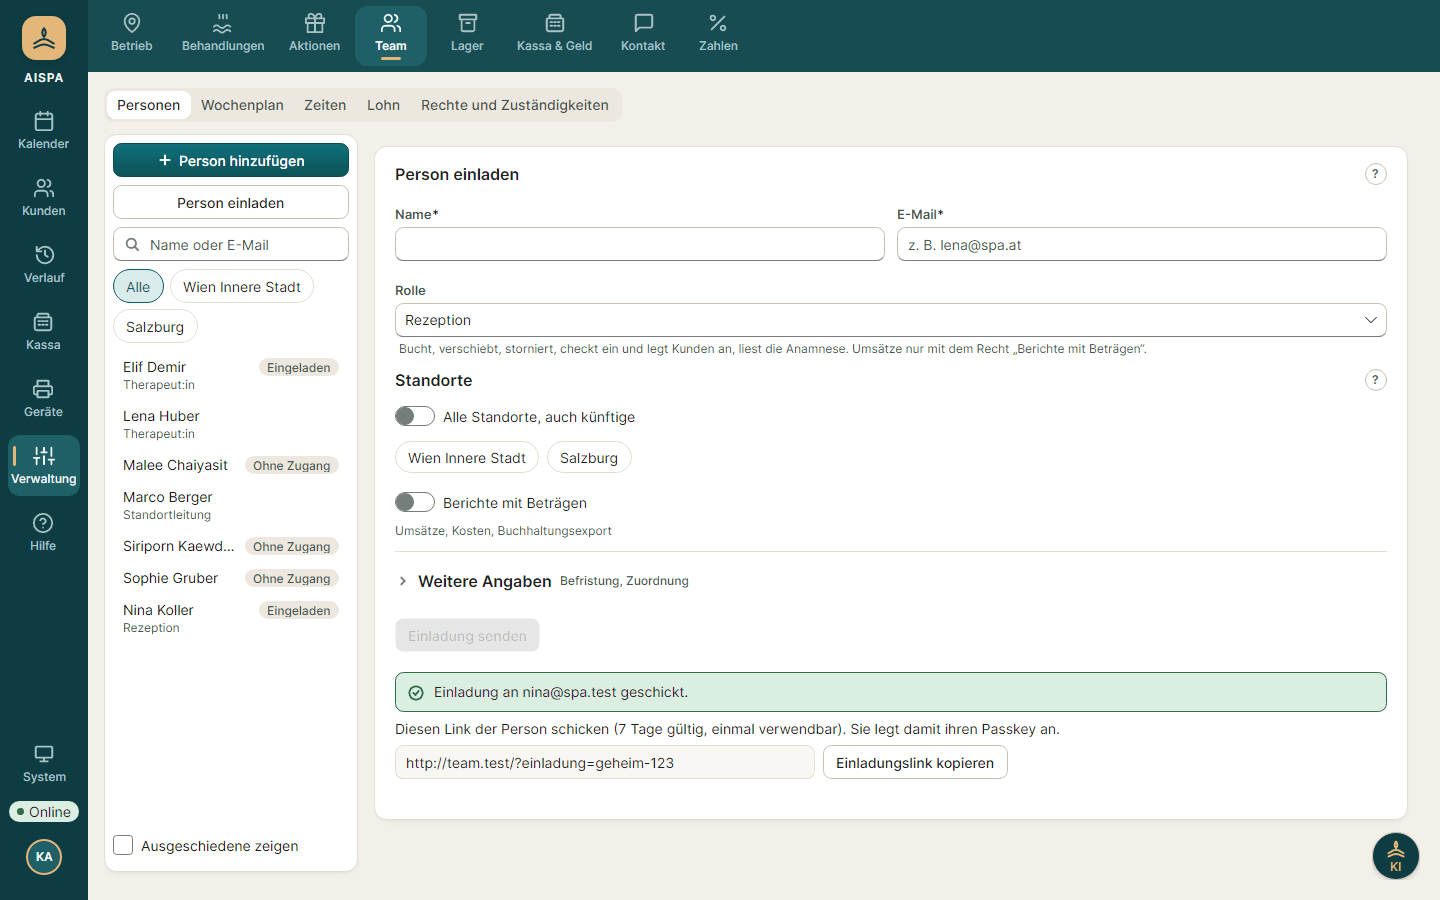
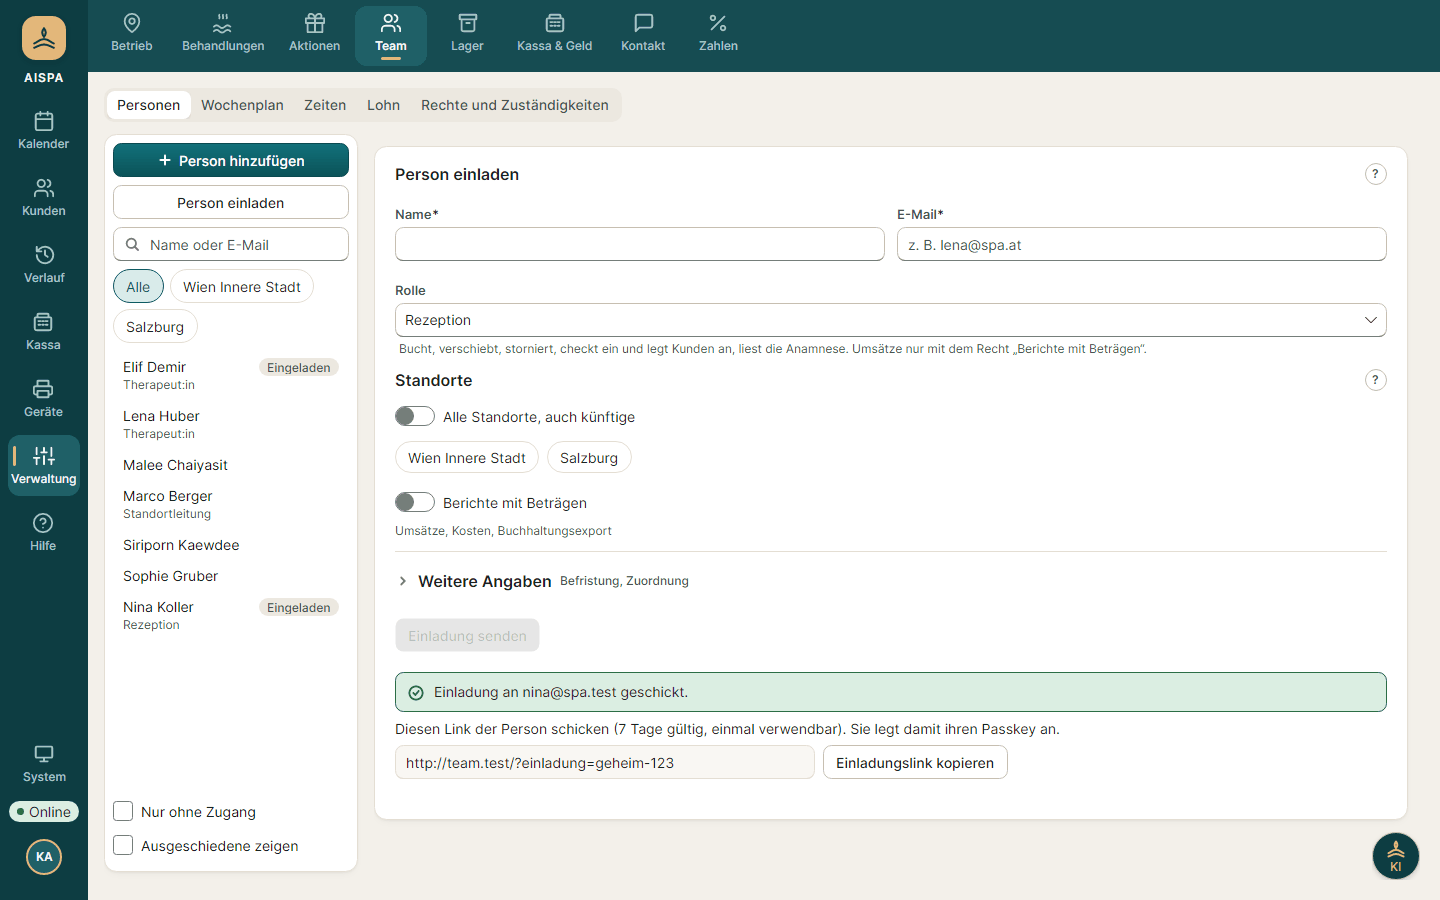
Team: „Ohne Zugang“ als Filter statt Kennzeichen, Standort-Chips mit Auswahlzustand (P5)

Changed region(s): [[0.0938, 0.5289, 0.25, 0.7156], [0.1562, 0.4978, 0.25, 0.5289], [0.1562, 0.9022, 0.1875, 0.9333]]

diff --git a/src/AispaStudio.Desktop/ViewModels/TeamViewModel.cs b/src/AispaStudio.Desktop/ViewModels/TeamViewModel.cs
@@ -268,6 +268,13 @@ public sealed partial class TeamViewModel : ViewModelBase, ITargetedArea
     [ObservableProperty]
     public partial bool ShowFormer { get; set; }
 
+    /// <summary>Nur Personen ohne Zugang und ohne offene Einladung (statt eines Kennzeichens in jeder Zeile; Auftraggeber, 17.11.2026).</summary>
+    [ObservableProperty]
+    public partial bool OnlyWithoutAccess { get; set; }
+
+    /// <summary>Den Filter „Nur ohne Zugang“ sieht nur, wer Zugänge verwaltet.</summary>
+    public bool CanFilterWithoutAccess => CanStaff;
+
     [ObservableProperty]
     [NotifyPropertyChangedFor(nameof(ShowsModesBar), nameof(ShowsPeopleView), nameof(ShowsRosterView), nameof(ShowsTimesView), nameof(ShowsPayrollView), nameof(ShowsRightsView),
         nameof(HasNoEntries))]
@@ -727,6 +734,8 @@ public sealed partial class TeamViewModel : ViewModelBase, ITargetedArea
 
     partial void OnShowFormerChanged(bool value) => Filter();
 
+    partial void OnOnlyWithoutAccessChanged(bool value) => Filter();
+
     partial void OnSelectedEntryChanged(TeamEntry? oldValue, TeamEntry? newValue)
     {
         OnPropertyChanged(nameof(ListSelection));
@@ -831,9 +840,9 @@ public sealed partial class TeamViewModel : ViewModelBase, ITargetedArea
             var invitation = member is null ? data.Invitations.FirstOrDefault(i => i.EmployeeId == employee.Id) : null;
             var (role, badge, kind) = member is not null ? MemberLabels(member, now)
                 : invitation is not null ? (RoleChoice.LabelOf(invitation.Role), "Eingeladen", EntryBadgeKind.Neutral)
-                : ("", CanStaff ? "Ohne Zugang" : null, EntryBadgeKind.Neutral);
+                : ("", null, EntryBadgeKind.Neutral);
             rows.Add((0, new TeamEntry(TeamEntryKind.Person, employee.DisplayName, role, employee.Id, member?.UserId, invitation?.Id,
-                member?.Email ?? invitation?.Email, Badge: badge, BadgeKind: kind)));
+                member?.Email ?? invitation?.Email, Badge: badge, BadgeKind: kind, HasNoAccess: CanStaff && member is null && invitation is null)));
         }
 
         var team = data.Employees.Select(e => e.Id).ToHashSet();
@@ -875,11 +884,11 @@ public sealed partial class TeamViewModel : ViewModelBase, ITargetedArea
         };
     }
 
-    /// <summary>Suche über Name und E-Mail, „Ausgeschiedene zeigen“ und der Standort.</summary>
+    /// <summary>Suche über Name und E-Mail, „Ausgeschiedene zeigen“, „Nur ohne Zugang“ und der Standort.</summary>
     private void Filter()
     {
         var search = Search.Trim();
-        var entries = _all.Where(e => (ShowFormer || e.Kind != TeamEntryKind.Former) && AtLocation(e) && (search.Length == 0
+        var entries = _all.Where(e => (ShowFormer || e.Kind != TeamEntryKind.Former) && (!OnlyWithoutAccess || e.HasNoAccess) && AtLocation(e) && (search.Length == 0
             || e.Title.Contains(search, StringComparison.OrdinalIgnoreCase) || e.Email?.Contains(search, StringComparison.OrdinalIgnoreCase) == true)).ToList();
         var selected = SelectedEntry ?? Card?.Entry;
         _reverting = true;

diff --git a/src/AispaStudio.Desktop/ViewModels/PersonCardViewModel.cs b/src/AispaStudio.Desktop/ViewModels/PersonCardViewModel.cs
@@ -239,20 +239,20 @@ public sealed partial class PersonCardViewModel : ViewModelBase, IEditableArea
     private string? HomeLocationName => _employee?.WorkingHours.Select(h => _context.Data.Locations.FirstOrDefault(l => l.Id == h.LocationId)?.Name).FirstOrDefault(name => name is not null);
 
     /// <summary>
-    /// Das Kennzeichen im Kopf: die Abweichung der Liste („Gesperrt“, „bis 19.12.2026“, „Eingeladen“, „Ohne Zugang“), sonst „Zugang aktiv“ bei einem Zugang. Eine neue Zeile und der eigene
-    /// Zugang einer Person ohne Karte haben keines.
+    /// Das Kennzeichen im Kopf: die Abweichung der Liste („Gesperrt“, „bis 19.12.2026“, „Eingeladen“), „Ohne Zugang“ (in der Liste ein Filter statt eines Kennzeichens), sonst
+    /// „Zugang aktiv“ bei einem Zugang. Eine neue Zeile und der eigene Zugang einer Person ohne Karte haben keines.
     /// </summary>
-    public string? PillText => Entry.IsNew ? null : Entry.Badge ?? (Member is not null ? "Zugang aktiv" : null);
+    public string? PillText => Entry.IsNew ? null : Entry.Badge ?? (Member is not null ? "Zugang aktiv" : Entry.HasNoAccess ? "Ohne Zugang" : null);
 
     public bool HasPill => PillText is not null;
 
-    public bool PillIsOk => HasPill && Entry.Badge is null;
+    public bool PillIsOk => HasPill && Entry.Badge is null && !Entry.HasNoAccess;
 
     public bool PillIsWarning => HasPill && Entry.BadgeIsWarning;
 
     public bool PillIsCritical => HasPill && Entry.BadgeIsCritical;
 
-    public bool PillIsNeutral => HasPill && Entry.BadgeIsNeutral;
+    public bool PillIsNeutral => HasPill && (Entry.BadgeIsNeutral || (Entry.Badge is null && Entry.HasNoAccess));
 
     /// <summary>„Person einladen“ trägt seine Überschrift mit Hilfe im Reiter; die Karte wiederholt sie nicht.</summary>
     public bool ShowsHeader => Entry.Kind != TeamEntryKind.NewAccess;

diff --git a/tests/AispaStudio.Desktop.Tests/TeamTests.cs b/tests/AispaStudio.Desktop.Tests/TeamTests.cs
@@ -85,7 +85,9 @@ public sealed class TeamTests
         Assert.Equal(Lena.Id, lena.EmployeeId);
         Assert.Equal("u-lena", lena.UserId);
         var marco = team.Entries.Single(e => e.Title == "Marco Berger");
-        Assert.Equal(("", "Ohne Zugang"), (marco.Role, marco.Badge));
+        // Ohne Zugang ist kein Kennzeichen in der Liste (Auftraggeber, 17.11.2026), sondern ein Filter darunter.
+        Assert.Equal(("", null, true), (marco.Role, marco.Badge, marco.HasNoAccess));
+        Assert.False(lena.HasNoAccess);
         var rita = team.Entries.Single(e => e.Title == "Rita Wagner");
         Assert.Equal(("Rezeption", null), (rita.Role, rita.Badge));
         // „Person hinzufügen“ und „Person einladen“ stehen fest über der Liste, nicht als letzte Zeilen darin (ADR 0099, Regel 1).
@@ -829,6 +831,19 @@ public sealed class TeamTests
         Assert.DoesNotContain(api.Calls, c => c.Route == "PUT /api/staff/u-lena");
         Assert.True(await team.SaveChangesAsync());
         Assert.False(JsonSerializer.Deserialize<StaffAccessInput>(Assert.Single(api.Calls, c => c.Route == "PUT /api/staff/u-lena").Body!, ApiClient.Json)!.IsActive);
+    }
+
+    [Fact]
+    public async Task Given_Personen_mit_und_ohne_Zugang_When_Nur_ohne_Zugang_gewaehlt_Then_bleibt_nur_Marco()
+    {
+        var team = await Loaded(Api());
+        Assert.True(team.CanFilterWithoutAccess);
+
+        team.OnlyWithoutAccess = true;
+
+        Assert.Equal(["Marco Berger"], team.Entries.Select(e => e.Title));
+        team.OnlyWithoutAccess = false;
+        Assert.Contains(team.Entries, e => e.Title == "Lena Huber");
     }
 
     [Fact]

diff --git a/src/AispaStudio.Desktop/ViewModels/TeamRows.cs b/src/AispaStudio.Desktop/ViewModels/TeamRows.cs
@@ -31,7 +31,7 @@ public enum TeamEntryKind
 /// Einladungen ohne Person stehen für sich.
 /// </summary>
 public sealed record TeamEntry(TeamEntryKind Kind, string Title, string Role, Guid? EmployeeId = null, string? UserId = null, Guid? InvitationId = null,
-    string? Email = null, string? FlagText = null, bool HasFlagWarning = false, string? Badge = null, EntryBadgeKind BadgeKind = EntryBadgeKind.Neutral)
+    string? Email = null, string? FlagText = null, bool HasFlagWarning = false, string? Badge = null, EntryBadgeKind BadgeKind = EntryBadgeKind.Neutral, bool HasNoAccess = false)
 {
     /// <summary>Die Rolle unter dem Namen in der Liste; leer bei einer Person ohne Zugang.</summary>
     public bool HasRole => Role.Length > 0;

diff --git a/docs/umsetzung/pr-protokoll.md b/docs/umsetzung/pr-protokoll.md
@@ -7025,7 +7025,7 @@ Auftraggeber (23.10.2026): „Räume sollen wie Urlaub auch gesperrt werden kön
 
 - **Auftrag:** Punkt 5 der Überarbeitung der Verwaltungsmasken (Auftraggeber, Entwurf „Personenkarte“): fester Kopf mit Menü „⋯“, jeder Abschnitt eine eigene Karte, Schalter statt Häkchen mit doppelter Beschriftung, Qualifikationen als Chips, die Regelarbeitszeit im Bereich „Arbeitszeit“, die Liste mit einem Kennzeichen nur bei Abweichung.
 - **Was:**
-  - Teamliste: „Person hinzufügen“ (primär) und „Person einladen“ bzw. „Zugang anlegen“ fest über der Liste (ADR 0099, Regel 1), darunter Suche, bei mehr als einem Standort die Standorte als Chips („Alle“ zuerst), Leerzustand mit „Person hinzufügen“ als erster Aktion. Eine Zeile zeigt Name und Rolle; ein Kennzeichen am Zeilenende nur bei Abweichung (Gesperrt, Abgelaufen, „bis 19.12.2026“, Eingeladen, Ohne Zugang, Ausgeschieden). `TeamEntry` trägt dafür `Role`, `Badge` und `BadgeKind` statt der Zeile „Rolle · Status“.
+  - Teamliste: „Person hinzufügen“ (primär) und „Person einladen“ bzw. „Zugang anlegen“ fest über der Liste (ADR 0099, Regel 1), darunter Suche, bei mehr als einem Standort die Standorte als Chips („Alle“ zuerst), Leerzustand mit „Person hinzufügen“ als erster Aktion. Eine Zeile zeigt Name und Rolle; ein Kennzeichen am Zeilenende nur bei Abweichung (Gesperrt, Abgelaufen, „bis 19.12.2026“, Eingeladen, Ausgeschieden). `TeamEntry` trägt dafür `Role`, `Badge` und `BadgeKind` statt der Zeile „Rolle · Status“.
   - Personenkarte: Kopf mit Initialenkreis, Name, „Rolle · Standort“, Kennzeichen („Zugang aktiv“ und die Abweichungen), „Verlauf“, Menü „⋯“ (Zugang sperren bzw. freigeben, Aus dem Team nehmen …) und Fragezeichen; Kopf und Schiene stehen fest, nur die Bereiche rollen. „Aus dem Team nehmen“ ist kein Knopf neben „Speichern“ mehr (ADR 0099, Regel 2); `MoreMenuButton` bekam dafür die optionalen Texte `DeactivateText` und `DeleteText`.
   - Profil: „Stammdaten“ und „Zugang und Rolle“ gleich breit nebeneinander (`MainSideColumns` mit neuem `Share`, unter 860 Breite untereinander), darunter „Qualifikationen“ und „Zuständigkeiten“ je als Karte in voller Breite. Schalter (`ToggleSwitch`) für „Zugang aktiv“, „Berichte mit Beträgen“, „Auswertungen ohne Beträge im Assistenten“ und „Alle Standorte“; Qualifikationen, Standorte und Sprachen als Auswahl-Chips (`ToggleButton.choicechip` mit Haken im gewählten Zustand); „Weitere Angaben“ (Zuordnung, Befristung) eingeklappt, offen bei befristetem Zugang.
   - Arbeitszeit: neuer Abschnitt „Regelarbeitszeit“ (früher „Wochenarbeitszeiten“ im Profil) als Tabelle Tag, Von, Bis, Standort mit „Frei: …“ darunter; er wird weiter mit den Stammdaten gespeichert. Sprungziel `regelarbeitszeit`, `team#wochenarbeitszeiten` bleibt gültig.
@@ -7038,10 +7038,10 @@ Auftraggeber (23.10.2026): „Räume sollen wie Urlaub auch gesperrt werden kön
   4. Der Entwurf zeigt Vorname, Nachname und Telefon. Die Person hat nur den vollständigen Namen und den Namen im Haus, die E-Mail steht beim Zugang: Es entstehen keine neuen Felder (der Entwurf ist ein Bild, kein Datenmodell). „Einladung senden“ neben dem Schalter bei einer Person mit Zugang gibt es nicht: Eine neue Einladung ersetzt nur eine offene, einen bestehenden Zugang lädt man nicht erneut ein.
   5. „Zuständigkeiten“ bleiben die vollständige Liste mit Formular als eigene Karte statt einer Zusammenfassung mit „Ändern“: Sonst gäbe es zwei Wege zum selben Formular.
   6. Stammdaten und Zugang stehen erst ab 860 Breite der Karte nebeneinander: Beim Mindestfenster (1100) bliebe jedem nur 331 Breite, und das Feld „Für Gäste mit Wunsch“ wurde angeschnitten. Gleich breit (`Share` 0,5) statt 3 : 2, weil beide Karten gleichrangig sind (masken.md R14).
-  7. Das Kennzeichen „Ohne Zugang“ steht an Personen ohne Anmeldung, auch wenn das ein Normalfall sein kann: Die Liste vor dieser Änderung nannte es ebenfalls („ohne Zugang“), und wer Zugänge verwaltet, sucht danach. Aktiv und unbefristet hat kein Kennzeichen.
+  7. Personen ohne Anmeldung tragen in der Liste kein Kennzeichen, weil das oft der Normalfall ist (in den Beispieldaten 3 von 6 Zeilen); wer Zugänge verwaltet, findet sie über den Filter „Nur ohne Zugang“ unter der Liste (`TeamEntry.HasNoAccess`), und der Kopf der Karte nennt „Ohne Zugang“ neutral (Entscheidung des Auftraggebers vom 17.11.2026 nach der ersten Fassung dieses PRs). Aktiv und unbefristet hat kein Kennzeichen.
   8. Ein Standort in der Liste zeigt Personen mit Arbeitszeit dort und Zugänge, die dort gelten (auch „alle Standorte“); eine Person ohne Arbeitszeit und ohne Zugang erscheint nur unter „Alle“.
   9. „Person hinzufügen“ und „Person einladen“ wählen keine Zeile der Liste (`ListSelection` ist dann leer), die Karte der neuen Person bleibt bei Suche und Standortwechsel offen.
-- **Bewusst offen / später:** Die Rechte-Tabelle („Wer darf was?“, Zuständigkeits-Übersicht, „+ Person“) ist P11 und gleicht dieselbe `TeamView`; hier unverändert. „Aus dem Team nehmen“ fragt weiter mit der einfachen Rückfrage; der gemeinsame Dialog mit `deletion-check` kommt in P10b. Die Liste „Ohne Zugang“ als Kennzeichen kann bei vielen Personen ohne Anmeldung unruhig wirken; ein Filter wäre eine Folgeänderung.
+- **Bewusst offen / später:** Die Rechte-Tabelle („Wer darf was?“, Zuständigkeits-Übersicht, „+ Person“) ist P11 und gleicht dieselbe `TeamView`; hier unverändert. „Aus dem Team nehmen“ fragt weiter mit der einfachen Rückfrage; der gemeinsame Dialog mit `deletion-check` kommt in P10b.
 - **Geprüft:** `dotnet format AispaStudio.slnx --verify-no-changes` grün; `dotnet build AispaStudio.slnx -c Release` grün; Windows-App (Release) `TeamTests` 47, `PersonCardTests` 32, `RosterTests` 87, `TimesheetTests` 31, `DutiesTests` 17, `PayrollTests` 24, `RegulationsTests` 13, `HrFileTests` 16, `AppointmentFilesTests` 11, `OperatorDocumentsTests` 13, `AdminPageTests` 34, `HelpTests` 18, `HelpPanelTests` 8, `DesignTokenTests` 107, alle grün (neu in `TeamTests`: Standort-Chips, „Person hinzufügen“ ohne gewählte Zeile, Leerzustand, Regelarbeitszeit im Bereich „Arbeitszeit“, Menü, Kennzeichen); Bildtests (Release, mit dem Stand dieser Änderung) `Verwaltung_Team*` 39, `Personenkarte*` 17 und `Jede_Seite_Team*` 1 (Namen und Tab-Erreichbarkeit) grün; darunter neu in `ViewTests.PersonCardLayout.cs` (fester Kopf, feste Knöpfe und Kennzeichen, Schalter und Chips, gleich breite Karten bei 1440 und 1100 hell und dunkel, nichts vom Rollbalken angeschnitten, Regelarbeitszeit speichert mit der Leiste) 10 Fälle grün; Web `npm run lint`, `npm run typecheck`, `npx vitest run src/help` grün. Bilder als Inhaberin mit Beispieldaten in hell und dunkel bei 1100 und 1440 Breite angesehen.
 - **Nicht geprüft:** die laufende App unter Windows (nur Headless-Bildtests); Narrator und Tastatur der Chips und Schalter im echten Fenster (der Namens- und Tab-Test läuft headless); die API-Tests (keine Änderung an der API); die vollen Suiten (läuft in der CI).
 - **Beim Schreiben festgestellt:** `ToggleButton` mit der globalen Vorlage färbte das gewählte Chip dunkel und verdeckte den Text, bis der Inhaltsteil der eigenen Vorlage einen anderen Namen als `PART_ContentPresenter` bekam. `Grid.IsSharedSizeScope` hält die Spalten „Von“ und „Bis“ der Regelarbeitszeit unter der Kopfzeile.

diff --git a/docs/stand-und-offene-punkte.md b/docs/stand-und-offene-punkte.md
@@ -328,7 +328,7 @@ Stand: 20.10.2026, nach PR #172; Übergabe an Claude Code ([ADR 0046](entscheidu
 | Beschriftungen größer und halbfett (P12, Auftraggeber 17.11.2026): Die Stufe „Beschriftung“ ist 13/600/18 statt 12/500/16 für Feldbeschriftungen, Gruppentitel, Tabellenköpfe und Kennzahl-Beschriftungen in App und Web; Hinweise bleiben 12/400. | fertig (Windows-App und Web) | Branch `claude/masken-beschriftungen` |
 | Hilfe als Leiste (Nachtrag 17.11.2026 zu [ADR 0079](entscheidungen/0079-eine-hilfe-fuer-windows-app-und-web.md)): das Fragezeichen der Windows-App öffnet die Hilfe zu Thema und Abschnitt oben in „KI und Hilfe“ (Web-Hilfe im Browser mit `ansicht=leiste`, Kopf, Schließen und „Im Handbuch öffnen“ nativ); die Maske bleibt stehen, das aktive Fragezeichen ist markiert, F1 zeigt die Hilfe zum Fokus (im Kalender bleibt F1 die Tastenhilfe), Esc schließt; Seitenleisten der Maske sind solange ausgeblendet (`SidePanelLayer`); im Kalender wählt das Fragezeichen den Reiter „KI und Hilfe“. Höchstens ein Fragezeichen ohne Abschnitt je Ansicht, keines doppelt (Regeltest). | fertig | Branch `claude/masken-hilfe-leiste`, PR auf `dev` |
 | „Mein Tag“ neu geordnet (P9, Masken-Überarbeitung): Kopf der Karte mit Uhrzeit und Name als Titel, Dauer und Raum als Kennzeichen (kein doppeltes „(60 Min.)“ mehr, `TreatmentCard.DisplayName`), Statuszeile je Termin („2 Vorbereitungen offen, erste bis 09:30“ oder „Bereit“), das Gerät als abhakbarer Schritt (`PUT /api/reports/appointments/{id}/equipment-prepared`, Migration `AppointmentEquipmentCheck`), Vorlieben als eigener Abschnitt „Das wünscht sich <Vorname>“ statt doppelt in der Vorbereitung, Karte einspaltig bis 760 breit; der Status der Seite zählt offene Vorbereitungen mit. Der Ort der Seite (unter „Zahlen“) bleibt, Frage an den Auftraggeber. | fertig (Windows-App) | Branch `claude/masken-mein-tag` |
-| Personenkarte und Teamliste neu geordnet (P5, Masken-Überarbeitung, [ADR 0098](entscheidungen/0098-verwaltungsmasken-eine-schiene-uebersicht-seitenleiste.md) Nachtrag): „Person hinzufügen“ und „Person einladen“ fest über der Liste, Standort-Chips, Kennzeichen am Zeilenende nur bei einer Abweichung (Gesperrt, Abgelaufen, Befristung, Eingeladen, Ohne Zugang); Kopf der Karte mit Initialen, „Rolle · Standort“, Kennzeichen und Menü „⋯“ (Zugang sperren, Aus dem Team nehmen) bleibt beim Scrollen stehen; Stammdaten und Zugang gleich breit nebeneinander, Schalter statt Häkchen, Qualifikationen, Standorte und Sprachen als Auswahl-Chips, „Weitere Angaben“ eingeklappt; die Regelarbeitszeit steht im Bereich „Arbeitszeit“. Kein neuer Endpunkt. Die Rechte-Tabelle (P11) folgt. | fertig (Windows-App) | Branch `claude/masken-personenkarte` |
+| Personenkarte und Teamliste neu geordnet (P5, Masken-Überarbeitung, [ADR 0098](entscheidungen/0098-verwaltungsmasken-eine-schiene-uebersicht-seitenleiste.md) Nachtrag): „Person hinzufügen“ und „Person einladen“ fest über der Liste, Standort-Chips, Kennzeichen am Zeilenende nur bei einer Abweichung (Gesperrt, Abgelaufen, Befristung, Eingeladen), Personen ohne Zugang über den Filter „Nur ohne Zugang“; Kopf der Karte mit Initialen, „Rolle · Standort“, Kennzeichen und Menü „⋯“ (Zugang sperren, Aus dem Team nehmen) bleibt beim Scrollen stehen; Stammdaten und Zugang gleich breit nebeneinander, Schalter statt Häkchen, Qualifikationen, Standorte und Sprachen als Auswahl-Chips, „Weitere Angaben“ eingeklappt; die Regelarbeitszeit steht im Bereich „Arbeitszeit“. Kein neuer Endpunkt. Die Rechte-Tabelle (P11) folgt. | fertig (Windows-App) | Branch `claude/masken-personenkarte` |
 
 ## Nicht auf `main`: offene Pull Requests und fertige Branch-Stände
 

diff --git a/docs/entscheidungen/0098-verwaltungsmasken-eine-schiene-uebersicht-seitenleiste.md b/docs/entscheidungen/0098-verwaltungsmasken-eine-schiene-uebersicht-seitenleiste.md
@@ -133,7 +133,7 @@ Die Zeile „Betrieb: Schließzeiten und Raumsperren stehen auf einer Seite“ g
 
 **Schalter in einer Maske mit „Speichern“.** design.md 5.23 verlangt Schalter nur für sofort wirkende Einstellungen. Der Entwurf des Auftraggebers zeigt auf der Personenkarte Schalter für „Zugang aktiv“, „Berichte mit Beträgen“, „Auswertungen ohne Beträge im Assistenten“ und „Alle Standorte“ statt Häkchen mit doppelter Beschriftung. Das gilt hier als benannte Ausnahme: Die Schalter wirken erst mit „Speichern“, die Beschriftung steht einmal am Schalter, der Hinweis darunter. Andere Masken mit „Speichern“ behalten Kontrollkästchen.
 
-**Teamliste.** „Person hinzufügen“ (primär) und „Person einladen“ bzw. „Zugang anlegen“ stehen fest über der Liste, nicht mehr als letzte Zeilen darin (ADR 0099, Regel 1); darunter die Suche und bei mehr als einem Standort „Alle“ und je Standort als Auswahl. Die Zeile nennt Name und Rolle; ein Kennzeichen am Zeilenende steht nur bei einer Abweichung: Gesperrt, Abgelaufen, „bis 19.12.2026“ (Befristung), Eingeladen, Ohne Zugang, Ausgeschieden. Ein Standort zeigt die Personen, die dort Arbeitszeit haben, oder deren Zugang dort gilt. Eine leere Liste nennt „Person hinzufügen“ als erste Aktion. Alles rechnet die Liste aus Daten, die die Karte ohnehin lädt; es gibt keinen neuen Endpunkt.
+**Teamliste.** „Person hinzufügen“ (primär) und „Person einladen“ bzw. „Zugang anlegen“ stehen fest über der Liste, nicht mehr als letzte Zeilen darin (ADR 0099, Regel 1); darunter die Suche und bei mehr als einem Standort „Alle“ und je Standort als Auswahl. Die Zeile nennt Name und Rolle; ein Kennzeichen am Zeilenende steht nur bei einer Abweichung: Gesperrt, Abgelaufen, „bis 19.12.2026“ (Befristung), Eingeladen, Ausgeschieden. Personen ohne Zugang zeigt der Filter „Nur ohne Zugang“ unter der Liste statt eines Kennzeichens in jeder Zeile (Auftraggeber, 17.11.2026); der Kopf der Karte nennt „Ohne Zugang“. Ein Standort zeigt die Personen, die dort Arbeitszeit haben, oder deren Zugang dort gilt. Eine leere Liste nennt „Person hinzufügen“ als erste Aktion. Alles rechnet die Liste aus Daten, die die Karte ohnehin lädt; es gibt keinen neuen Endpunkt.
 
 **Begründung.** Die Regelarbeitszeit gehört zur Planung, nicht zu den Stammdaten; im Profil lag sie unter Sprachen und wurde übersehen. Ein fester Kopf hält Name und Menü im Bild, während man durch die Bereiche rollt. Das Kennzeichen nur bei Abweichungen entlastet die Liste: Wer normal angemeldet ist, braucht keinen Zusatz.
 

diff --git a/web/src/help/content/team.md b/web/src/help/content/team.md
@@ -45,7 +45,7 @@ Ein geöffneter Tag im Dienstplan oder in den Zeiten hat seine eigene Leiste **S
 
 ## Suche {#suche}
 
-Das Suchfeld „Name oder E-Mail“ über der Liste filtert die Personen beim Tippen. Bei mehr als einem Standort stehen darunter **Alle** und die Standorte als Auswahl; ein Standort zeigt die Personen, die dort arbeiten oder deren Zugang dort gilt. Jede Zeile nennt unter dem Namen die Rolle, z. B. „Rezeption“. Ein Kennzeichen am Zeilenende steht nur bei einer Abweichung: **Gesperrt**, **Abgelaufen**, **bis 19.12.2026** bei einer Befristung (**Endet bald, bis …** in den letzten sieben Tagen), **Eingeladen**, **Ohne Zugang** oder **Ausgeschieden**. Wer aktiv und unbefristet angemeldet ist, hat kein Kennzeichen.
+Das Suchfeld „Name oder E-Mail“ über der Liste filtert die Personen beim Tippen. Bei mehr als einem Standort stehen darunter **Alle** und die Standorte als Auswahl; ein Standort zeigt die Personen, die dort arbeiten oder deren Zugang dort gilt. Jede Zeile nennt unter dem Namen die Rolle, z. B. „Rezeption“. Ein Kennzeichen am Zeilenende steht nur bei einer Abweichung: **Gesperrt**, **Abgelaufen**, **bis 19.12.2026** bei einer Befristung (**Endet bald, bis …** in den letzten sieben Tagen), **Eingeladen** oder **Ausgeschieden**. Wer aktiv und unbefristet angemeldet ist, hat kein Kennzeichen. Personen ohne Zugang tragen in der Liste kein Kennzeichen; **Nur ohne Zugang** unter der Liste zeigt nur sie, und der Kopf ihrer Karte nennt **Ohne Zugang**.
 
 ## Ausgeschiedene zeigen {#ausgeschiedene-zeigen}
 

diff --git a/web/src/help/content/stammdaten-person-anlegen.md b/web/src/help/content/stammdaten-person-anlegen.md
@@ -8,7 +8,7 @@ stichwoerter: Person anlegen, Rufname, Spitzname, Name im Haus, Mitarbeiterin an
 ---
 # Person im Team anlegen oder ändern
 
-Im Team stehen die Personen, die Behandlungen geben, mit Kalenderfarbe, Qualifikationen und regelmäßiger Wochenarbeitszeit. Der Zugang zur Software ist davon getrennt und liegt in der Windows-App im Bereich „Profil“ derselben Personenkarte, Abschnitt „Zugang und Rolle“. Eine Person ohne Zugang lässt sich einplanen; die Liste zeigt sie mit dem Kennzeichen „Ohne Zugang“.
+Im Team stehen die Personen, die Behandlungen geben, mit Kalenderfarbe, Qualifikationen und regelmäßiger Wochenarbeitszeit. Der Zugang zur Software ist davon getrennt und liegt in der Windows-App im Bereich „Profil“ derselben Personenkarte, Abschnitt „Zugang und Rolle“. Eine Person ohne Zugang lässt sich einplanen; **Nur ohne Zugang** unter der Liste zeigt alle Personen ohne Zugang, und der Kopf ihrer Karte nennt „Ohne Zugang“.
 
 ## Neue Person anlegen {#anlegen}
 
